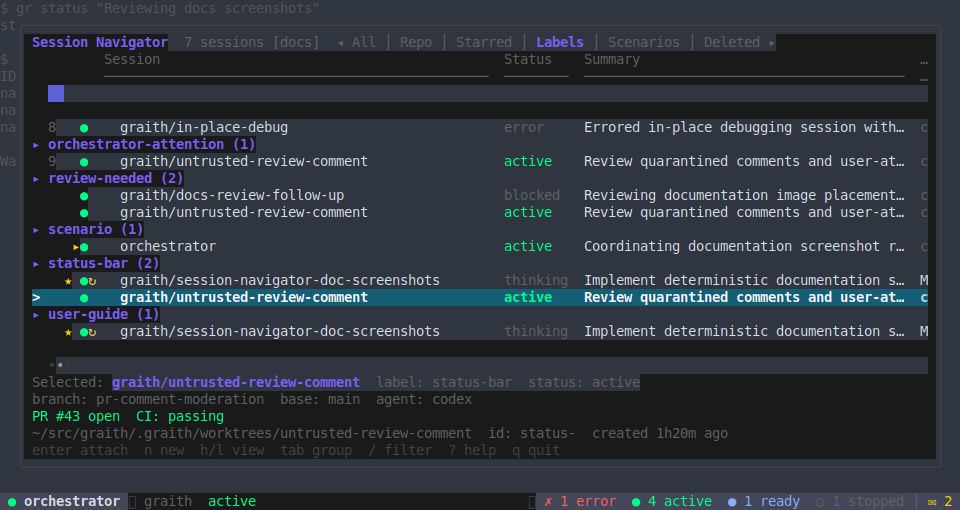
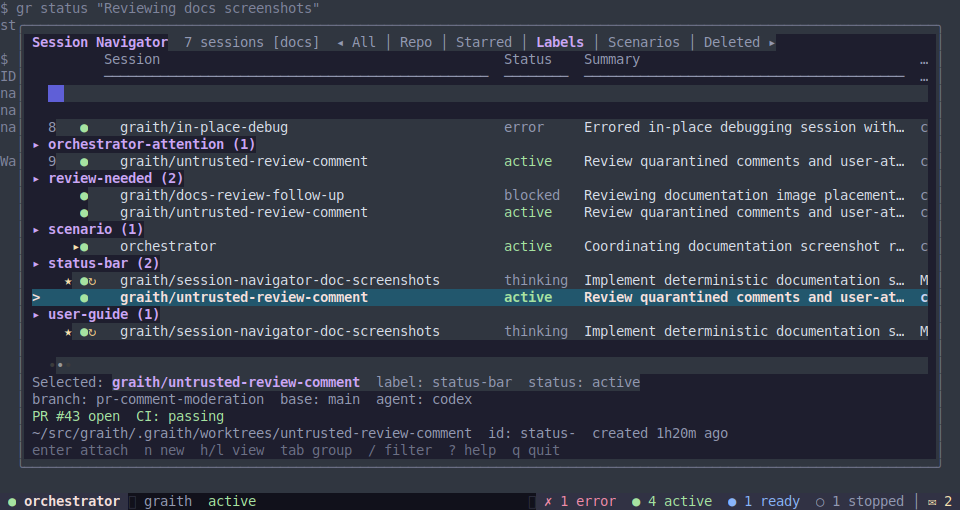
feat: refresh default terminal palette

diff --git a/internal/client/overlay.go b/internal/client/overlay.go
@@ -219,41 +219,45 @@ func filterStarred(sessions []protocol.SessionInfo) []protocol.SessionInfo {
 }
 
 var (
-	colorGreen   = lipgloss.Color("#00ff87")
-	colorRed     = lipgloss.Color("#ff5f5f")
-	colorBlue    = lipgloss.Color("#87afff")
-	colorGold    = lipgloss.Color("#FFD700")
-	colorPurple  = lipgloss.Color("#7B61FF")
-	colorDim     = lipgloss.Color("#626262")
-	colorFaint   = lipgloss.Color("#444444")
-	colorYellow  = lipgloss.Color("#FFD75F")
-	colorPreview = lipgloss.Color("#555555")
-	colorPanel   = lipgloss.Color("#1a1a1a")
+	// The default UI palette uses a dark, stepped surface with soft
+	// Catppuccin/Kanagawa-inspired accents. Keep these as semantic roles so the
+	// Session Navigator, message browser, status bar, and CLI snapshots stay in
+	// the same visual family.
+	colorGreen   = lipgloss.Color("#a6e3a1")
+	colorRed     = lipgloss.Color("#f38ba8")
+	colorBlue    = lipgloss.Color("#89b4fa")
+	colorGold    = lipgloss.Color("#f9e2af")
+	colorPurple  = lipgloss.Color("#cba6f7")
+	colorDim     = lipgloss.Color("#9399b2")
+	colorFaint   = lipgloss.Color("#6c7086")
+	colorYellow  = lipgloss.Color("#e6c384")
+	colorPreview = lipgloss.Color("#7f849c")
+	colorPanel   = lipgloss.Color("#1e1e2e")
 	// Selected-row colours are intentionally stronger than the panel background:
 	// the active Navigator row must be visible at a glance on common dark
 	// terminals without waiting for the "> " cursor to catch the eye.
-	colorSelectBg   = lipgloss.Color("#155e75")
-	colorSelectFg   = lipgloss.Color("#f8fafc")
-	colorSelectDim  = lipgloss.Color("#cbd5e1")
-	colorSelectRed  = lipgloss.Color("#fecaca")
-	colorSelectBlue = lipgloss.Color("#bfdbfe")
+	colorSelectBg   = lipgloss.Color("#22576d")
+	colorSelectFg   = lipgloss.Color("#f5e0dc")
+	colorSelectDim  = lipgloss.Color("#cdd6f4")
+	colorSelectRed  = lipgloss.Color("#f2cdcd")
+	colorSelectBlue = lipgloss.Color("#c6d0f5")
 
-	colorLabelChipLightText = lipgloss.Color("#f8fafc")
-	colorLabelChipDarkText  = lipgloss.Color("#111827")
-	colorLabelChipOverflow  = lipgloss.Color("#3f3f46")
+	colorLabelChipLightText = lipgloss.Color("#f5e0dc")
+	colorLabelChipDarkText  = lipgloss.Color("#11111b")
+	colorLabelChipOverflow  = lipgloss.Color("#45475a")
 	labelChipPalette        = []color.Color{
-		lipgloss.Color("#2563eb"),
-		lipgloss.Color("#0891b2"),
-		lipgloss.Color("#059669"),
-		lipgloss.Color("#7c3aed"),
-		lipgloss.Color("#a21caf"),
-		lipgloss.Color("#be123c"),
-		lipgloss.Color("#c2410c"),
-		lipgloss.Color("#a16207"),
-		lipgloss.Color("#0f766e"),
-		lipgloss.Color("#4338ca"),
-		lipgloss.Color("#0e7490"),
-		lipgloss.Color("#7f1d1d"),
+		lipgloss.Color("#89b4fa"),
+		lipgloss.Color("#94e2d5"),
+		lipgloss.Color("#a6e3a1"),
+		lipgloss.Color("#cba6f7"),
+		lipgloss.Color("#f5c2e7"),
+		lipgloss.Color("#f38ba8"),
+		lipgloss.Color("#fab387"),
+		lipgloss.Color("#f9e2af"),
+		lipgloss.Color("#7e9cd8"),
+		lipgloss.Color("#98bb6c"),
+		lipgloss.Color("#e6c384"),
+		lipgloss.Color("#d27e99"),
 	}
 )
 

diff --git a/internal/client/statusbar.go b/internal/client/statusbar.go
@@ -60,8 +60,8 @@ const (
 )
 
 var (
-	barBg    = lipgloss.Color("#1a1a1a")
-	accentBg = lipgloss.Color("#44475a")
+	barBg    = lipgloss.Color("#11111b")
+	accentBg = lipgloss.Color("#313244")
 )
 
 func styledStatus(status string, bg color.Color) lipgloss.Style {
@@ -95,7 +95,7 @@ func formatStatusLine(info statusBarInfo, cols int) string {
 
 	accentPad := lipgloss.NewStyle().Background(accent)
 	fillPad := lipgloss.NewStyle().Background(fill)
-	nameStyle := lipgloss.NewStyle().Bold(true).Background(accent)
+	nameStyle := lipgloss.NewStyle().Bold(true).Foreground(colorSelectFg).Background(accent)
 	agentStyle := lipgloss.NewStyle().Foreground(colorDim).Background(fill)
 	branchStyle := lipgloss.NewStyle().Foreground(colorDim).Background(fill)
 	dirtyStyle := lipgloss.NewStyle().Foreground(colorGold).Background(fill)
@@ -312,7 +312,7 @@ func sanitizeStatusText(s string) string {
 // read-only attach (issue #31): a bold badge followed by the session name and
 // agent/status, padded to the full terminal width so it reads as a bar.
 func formatReadOnlyLine(info statusBarInfo, cols int) string {
-	badgeBg := lipgloss.Color("#8b0000")
+	badgeBg := lipgloss.Color("#43242b")
 
 	badgeStyle := lipgloss.NewStyle().Bold(true).Foreground(colorGold).Background(badgeBg)
 	nameStyle := lipgloss.NewStyle().Bold(true).Foreground(colorGold).Background(barBg)
